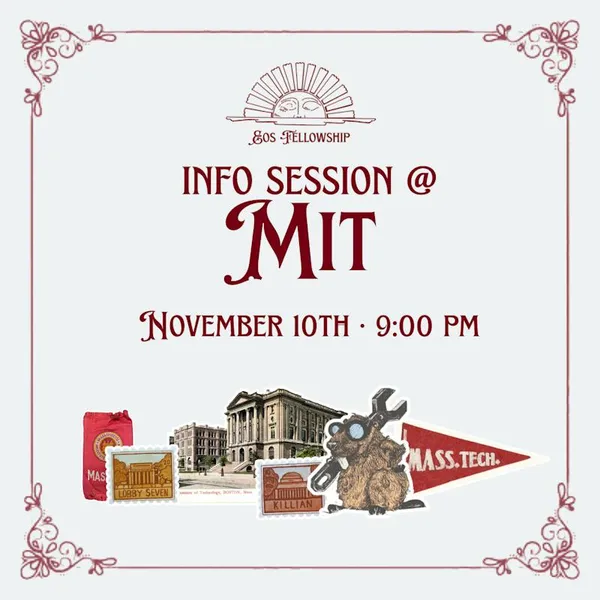
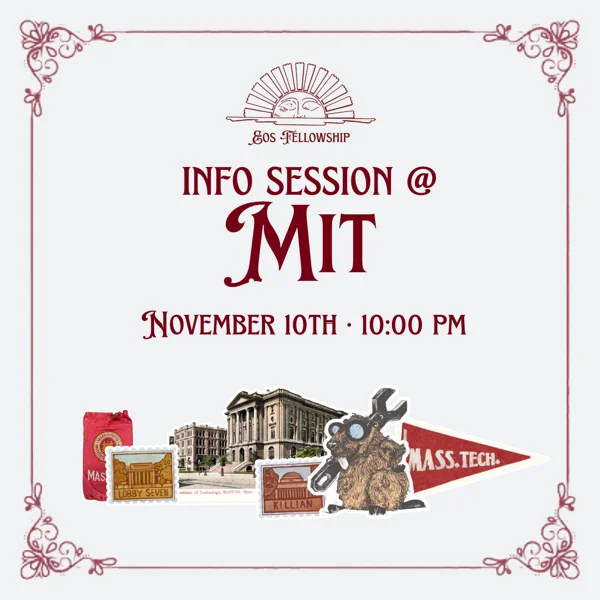
Serve the application at /apply; move hand edits into src
- vercel.json: cleanUrls, so /apply serves apply.html and /apply.html redirects there
- links on the hosted pages point to apply and ./; the canonical is eosfellows.com/apply
- Berkeley, Stanford, MIT at 10 PM, Kush Bavaria, and Angelina's affiliation now live in
  src/ (site.json, links.json, templates), so a rebuild keeps them. Sessions can set their
  own time zone (tz, utc_offset).

diff --git a/src/templates/index.body.html b/src/templates/index.body.html
@@ -21,11 +21,11 @@
     <section class="sec" id="sessions" aria-labelledby="h-sessions">
       <div class="main">
         <h2 class="rubric" id="h-sessions">Info sessions</h2>
-        <p class="clear"><img class="init" src="%%A%%" alt="" title="Initial A, Scriptores Historiae Augustae"><span class="sr">A</span>s we begin bringing this community to campuses across the country, we're excited to be coming to Columbia, Penn, Princeton, Yale, MIT, and Harvard. Several of our core organizers, including Andrea Wang (SV Angel), Adam Zhou (Redglass), Joshua Browder (DoNotPay, Browder Capital), and Prat Mallick (Xfund), will be on campus to meet students, share more about the fellowship, and hear what people are working on.</p>
+        <p class="clear"><img class="init" src="%%A%%" alt="" title="Initial A, Scriptores Historiae Augustae"><span class="sr">A</span>s we begin bringing this community to campuses across the country, we're excited to be coming to Columbia, Penn, Princeton, Yale, MIT, Harvard, Berkeley, and Stanford. Several of our core organizers, including Andrea Wang (SV Angel), Joshua Browder (DoNotPay, Browder Capital), Sean Cai (a16z), and Angelina Lue (Meta Superintelligence), will be on campus to meet students, share more about the fellowship, and hear what people are working on.</p>
         <p>If you're building something or starting to explore your life's work, we'd love to meet you. Pick your campus and RSVP on Partiful.</p>
       </div>
       <aside class="gloss">
-        <p class="note"><span class="manicule" aria-hidden="true">☞</span><span>Six campuses<br>Nov 6 – 10<br>Pick yours below</span></p>
+        <p class="note"><span class="manicule" aria-hidden="true">☞</span><span>Eight campuses<br>Nov 6 – 19<br>Pick yours below</span></p>
         <figure><img src="%%snailwoman%%" alt="A woman waving from a snail shell" width="105" height="191"><figcaption>Hours of Jacques de Rambures, c. 1460</figcaption></figure>
       </aside>
       <ol class="sessions">
@@ -65,7 +65,7 @@
         <div class="kalendar">
           <div class="kl" aria-hidden="true"><span class="k">K</span><span class="l">L</span></div>
           <ol class="kal">
-            <li class="red"><span class="ro" aria-hidden="true">vj–x</span><span class="when">Nov 6–10</span><span class="ev">Info sessions at Columbia, Penn, Princeton, Yale, MIT, and Harvard</span></li>
+            <li class="red"><span class="ro" aria-hidden="true">vj–xix</span><span class="when">Nov 6–19</span><span class="ev">Info sessions at Columbia, Penn, Princeton, Yale, MIT, Harvard, Berkeley, and Stanford</span></li>
             <li class="red"><span class="ro" aria-hidden="true">xv</span><span class="when">Dec 15</span><span class="ev">Apply <a href="apply.html">here</a> by Dec 15</span></li>
             <li><span class="ro" aria-hidden="true">mmxxvij</span><span class="when">Early 2027</span><span class="ev">We will review all applications and reach out in early 2027 if you are invited to interview</span></li>
             <li class="blue"><span class="ro" aria-hidden="true">mmxxvij</span><span class="when">End of Q1</span><span class="ev">First cohort will be selected by the end of Q1 2027</span></li>
@@ -91,7 +91,7 @@
             <ul class="roll">
               <li><span class="nm">Adam Zhou</span><span class="af">Redglass</span></li>
               <li><span class="nm">Andrea Wang</span><span class="af">SV Angel</span></li>
-              <li><span class="nm">Angelina Lue</span><span class="af">Meta</span></li>
+              <li><span class="nm">Angelina Lue</span><span class="af">Meta Superintelligence</span></li>
               <li><span class="nm">Joshua Browder</span><span class="af">DoNotPay, Browder Capital</span></li>
               <li><span class="nm">Prat Mallick</span><span class="af">Xfund</span></li>
               <li><span class="nm">Sean Cai</span><span class="af">a16z</span></li>
@@ -103,6 +103,7 @@
               <li><span class="nm">Adarsh Hiremath</span><span class="af">Mercor</span></li>
               <li><span class="nm">Alex Shan</span><span class="af">Judgment Labs</span></li>
               <li><span class="nm">Grace Li</span><span class="af">The Intelligence Company</span></li>
+              <li><span class="nm">Kush Bavaria</span><span class="af">Ornn</span></li>
               <li><span class="nm">Mary Gao</span><span class="af">Cognition</span></li>
               <li><span class="nm">Vincent Zhu</span><span class="af">Cursor/SpaceX</span></li>
               <li><span class="nm">Yash Patil</span><span class="af">Applied Compute</span></li>

diff --git a/apply.html b/apply.html
@@ -1,5 +1,5 @@
 <!doctype html><html lang="en"><head><meta charset="utf-8"><meta name="viewport" content="width=device-width,initial-scale=1,viewport-fit=cover"><style>:root{color-scheme:light;padding-top:env(safe-area-inset-top,0px);padding-bottom:env(safe-area-inset-bottom,0px)}body{margin:0}img{max-width:100%}</style>
-<link rel="canonical" href="https://eosfellows.com/apply.html">
+<link rel="canonical" href="https://eosfellows.com/apply">
 <link rel="icon" href="favicon.ico" sizes="any">
 <link rel="icon" type="image/png" sizes="32x32" href="favicon-32.png">
 <link rel="icon" type="image/png" sizes="192x192" href="icon-192.png">
@@ -9,7 +9,7 @@
 <meta property="og:site_name" content="Eos Fellowship">
 <meta property="og:title" content="Apply to the Eos Fellowship">
 <meta property="og:description" content="Discover, Champion, and Accelerate your life’s work">
-<meta property="og:url" content="https://eosfellows.com/apply.html">
+<meta property="og:url" content="https://eosfellows.com/apply">
 <meta property="og:image" content="https://eosfellows.com/og.jpg">
 <meta property="og:image:width" content="1200">
 <meta property="og:image:height" content="630">
@@ -440,18 +440,18 @@ a.poster:hover{transform:translateY(-2px);box-shadow:0 0 0 1px var(--ink),0 9px 
 
 <header class="bar">
   <div class="bar-in">
-    <a class="brand" href="index.html#top" aria-label="Eos Fellowship, back to top">
+    <a class="brand" href="./#top" aria-label="Eos Fellowship, back to top">
       <svg viewBox="136 213 640 652" aria-hidden="true"><use href="#p-sil" fill="url(#gilt)"/><use href="#p-sil" class="glint" fill="url(#glint)"/><use href="#p-sun" class="sun-ink"/></svg>
       <span>Eos Fellowship</span>
     </a>
     <nav class="tabula" id="tabula" aria-label="Contents">
-      <a href="index.html#sessions">Info Sessions</a>
-      <a href="index.html#fellowship">The Fellowship</a>
-      <a href="index.html#why">Why Join</a>
-      <a href="index.html#sessions" data-rsvp>RSVP</a>
-      <a href="index.html#company">Organizers</a>
+      <a href="./#sessions">Info Sessions</a>
+      <a href="./#fellowship">The Fellowship</a>
+      <a href="./#why">Why Join</a>
+      <a href="./#sessions" data-rsvp>RSVP</a>
+      <a href="./#company">Organizers</a>
     </nav>
-    <a class="btn btn-rubric" id="bar-cta" href="apply.html">Apply</a>
+    <a class="btn btn-rubric" id="bar-cta" href="apply">Apply</a>
     <button class="toggle" type="button" aria-expanded="false" aria-controls="tabula" aria-label="Contents"><i></i><i></i><i></i></button>
   </div>
 </header>
@@ -460,7 +460,7 @@ a.poster:hover{transform:translateY(-2px);box-shadow:0 0 0 1px var(--ink),0 9px 
   <div class="text">
     <section class="sec wide apply-sec" id="application" aria-labelledby="h-app">
       <div class="main app">
-        <p class="back"><a href="index.html">← Back to the Eos Fellowship</a></p>
+        <p class="back"><a href="./">← Back to the Eos Fellowship</a></p>
         <h1 class="app-title" id="h-app"><span class="cap">T</span>he Application</h1>
         <p class="app-lede">Apply by Dec 15. We will review all applications and reach out in early 2027 if you are invited to interview. First cohort will be selected by the end of Q1 2027.</p>
         <p class="app-intro">Fields marked <span class="req">*</span> are required. Your progress saves automatically in this browser, so you can close the page and finish later. After you submit, we email you a copy.</p>
@@ -683,7 +683,7 @@ a.poster:hover{transform:translateY(-2px);box-shadow:0 0 0 1px var(--ink),0 9px 
     const data = values();
     if (data.website) { finish(data.name); return; }
     if (!SHEET_ENDPOINT.startsWith("https://")) {
-      status.innerHTML = 'This preview can\'t send applications. Please apply at <a href="https://eosfellows.com/apply.html" target="_blank" rel="noopener">eosfellows.com/apply.html</a>.';
+      status.innerHTML = 'This preview can\'t send applications. Please apply at <a href="https://eosfellows.com/apply" target="_blank" rel="noopener">eosfellows.com/apply</a>.';
       status.classList.add("bad");
       return;
     }

diff --git a/index.html b/index.html
@@ -451,7 +451,7 @@ a.poster:hover{transform:translateY(-2px);box-shadow:0 0 0 1px var(--ink),0 9px 
       <a href="#sessions" data-rsvp>RSVP</a>
       <a href="#company">Organizers</a>
     </nav>
-    <a class="btn btn-rubric" id="bar-cta" href="apply.html">Apply</a>
+    <a class="btn btn-rubric" id="bar-cta" href="apply">Apply</a>
     <button class="toggle" type="button" aria-expanded="false" aria-controls="tabula" aria-label="Contents"><i></i><i></i><i></i></button>
   </div>
 </header>
@@ -469,7 +469,7 @@ a.poster:hover{transform:translateY(-2px);box-shadow:0 0 0 1px var(--ink),0 9px 
       </div>
       <div class="actions hero-actions">
         <a class="btn btn-rubric" href="#sessions">RSVP for an info session</a>
-        <a class="btn btn-ruled" href="apply.html">Apply by Dec 15</a>
+        <a class="btn btn-ruled" href="apply">Apply by Dec 15</a>
       </div>
     </div>
   </section>
@@ -587,14 +587,14 @@ a.poster:hover{transform:translateY(-2px);box-shadow:0 0 0 1px var(--ink),0 9px 
           <div class="kl" aria-hidden="true"><span class="k">K</span><span class="l">L</span></div>
           <ol class="kal">
             <li class="red"><span class="ro" aria-hidden="true">vj–xix</span><span class="when">Nov 6–19</span><span class="ev">Info sessions at Columbia, Penn, Princeton, Yale, MIT, Harvard, Berkeley, and Stanford</span></li>
-            <li class="red"><span class="ro" aria-hidden="true">xv</span><span class="when">Dec 15</span><span class="ev">Apply <a href="apply.html">here</a> by Dec 15</span></li>
+            <li class="red"><span class="ro" aria-hidden="true">xv</span><span class="when">Dec 15</span><span class="ev">Apply <a href="apply">here</a> by Dec 15</span></li>
             <li><span class="ro" aria-hidden="true">mmxxvij</span><span class="when">Early 2027</span><span class="ev">We will review all applications and reach out in early 2027 if you are invited to interview</span></li>
             <li class="blue"><span class="ro" aria-hidden="true">mmxxvij</span><span class="when">End of Q1</span><span class="ev">First cohort will be selected by the end of Q1 2027</span></li>
           </ol>
         </div>
 
         <div class="actions">
-          <a class="btn btn-rubric" href="apply.html">Start your application <span class="arr" aria-hidden="true">→</span></a>
+          <a class="btn btn-rubric" href="apply">Start your application <span class="arr" aria-hidden="true">→</span></a>
         </div>
       </div>
       <aside class="gloss">
@@ -644,7 +644,7 @@ a.poster:hover{transform:translateY(-2px);box-shadow:0 0 0 1px var(--ink),0 9px 
     <svg class="device" viewBox="120 200 1670 680" role="img" aria-label="Eos Fellows"><use href="#p-sun"/><use href="#p-word"/></svg>
     <div class="actions">
       <a class="btn btn-rubric" href="#sessions">RSVP for an info session</a>
-      <a class="btn btn-ruled" href="apply.html">Apply by Dec 15</a>
+      <a class="btn btn-ruled" href="apply">Apply by Dec 15</a>
     </div>
   </footer>
 </main>
@@ -768,7 +768,7 @@ a.poster:hover{transform:translateY(-2px);box-shadow:0 0 0 1px var(--ink),0 9px 
     const data = values();
     if (data.website) { finish(data.name); return; }
     if (!SHEET_ENDPOINT.startsWith("https://")) {
-      status.innerHTML = 'This preview can\'t send applications. Please apply at <a href="https://eosfellows.com/apply.html" target="_blank" rel="noopener">eosfellows.com/apply.html</a>.';
+      status.innerHTML = 'This preview can\'t send applications. Please apply at <a href="https://eosfellows.com/apply" target="_blank" rel="noopener">eosfellows.com/apply</a>.';
       status.classList.add("bad");
       return;
     }

diff --git a/src/templates/script.html b/src/templates/script.html
@@ -117,7 +117,7 @@
     const data = values();
     if (data.website) { finish(data.name); return; }
     if (!SHEET_ENDPOINT.startsWith("https://")) {
-      status.innerHTML = 'This preview can\'t send applications. Please apply at <a href="https://eosfellows.com/apply.html" target="_blank" rel="noopener">eosfellows.com/apply.html</a>.';
+      status.innerHTML = 'This preview can\'t send applications. Please apply at <a href="https://eosfellows.com/apply" target="_blank" rel="noopener">eosfellows.com/apply</a>.';
       status.classList.add("bad");
       return;
     }

diff --git a/tools/build.py b/tools/build.py
@@ -27,8 +27,8 @@ def data_uri(name):
         return 'data:%s;base64,%s' % (mime, base64.b64encode(f.read()).decode())
 
 
-def gcal(title, start, end, details, loc=''):
-    q = {'action': 'TEMPLATE', 'text': title, 'dates': start + '/' + end, 'ctz': 'America/New_York', 'details': details}
+def gcal(title, start, end, details, loc='', tz='America/New_York'):
+    q = {'action': 'TEMPLATE', 'text': title, 'dates': start + '/' + end, 'ctz': tz, 'details': details}
     if loc:
         q['location'] = loc
     return 'https://calendar.google.com/calendar/render?' + urllib.parse.urlencode(q)
@@ -39,11 +39,12 @@ def session_cards():
     for s in cfg['sessions']:
         rsvp = 'https://partiful.com/e/' + s['partiful']
         d = s['date'].replace('-', '')
+        # times are local to the campus; Eastern unless the session says otherwise (Nov is standard time)
+        tz, off = s.get('tz', 'America/New_York'), s.get('utc_offset', '-05:00')
         cal = gcal('Eos Fellowship info session at ' + s['school'], d + 'T' + s['start'] + '00', d + 'T' + s['end'] + '00',
-                   'RSVP: ' + rsvp, s['where'])
-        # all sessions are in Eastern time after the Nov 1 DST change
-        end_iso = '%sT%s:%s:00-05:00' % (s['date'], s['end'][:2], s['end'][2:])
-        start_iso = '%sT%s:%s-05:00' % (s['date'], s['start'][:2], s['start'][2:])
+                   'RSVP: ' + rsvp, s['where'], tz)
+        end_iso = '%sT%s:%s:00%s' % (s['date'], s['end'][:2], s['end'][2:], off)
+        start_iso = '%sT%s:%s%s' % (s['date'], s['start'][:2], s['start'][2:], off)
         school = s['school']
         cards.append(f'''          <li class="session" data-end="{end_iso}">
             <a class="poster" href="{esc(rsvp)}" target="_blank" rel="noopener" tabindex="-1" aria-hidden="true"><img src="{data_uri(s['poster'])}" alt="" width="600" height="600"></a>
@@ -78,10 +79,9 @@ def link_roster(body):
     for name, title in links.get('titles', {}).items():
         body = body.replace(f'>{name}</a><span class="af">',
                             f'>{name}</a><span class="af"><span class="ti">{esc(title)}</span><span class="sep"> · </span>', 1)
-    # organizer names in the info-sessions paragraph
-    for name in ('Andrea Wang', 'Adam Zhou', 'Joshua Browder', 'Prat Mallick'):
-        url = links['people'].get(name)
-        if url:
+    # organizer names in the info-sessions paragraph, written as "Name (Company)"
+    for name, url in links['people'].items():
+        if name + ' (' in body:
             body = body.replace(name + ' (', f'<a href="{esc(url)}" target="_blank" rel="noopener" title="{esc(name)} on LinkedIn">{name}</a> (', 1)
     return body
 
@@ -114,6 +114,8 @@ def page(body, title, base, endpoint):
 def hosted(p, og_title, path):
     """Full document with icons, canonical URL and link-preview tags in <head>."""
     p = p.replace('<meta name="claude:viewport-fit-sides" content="cover">\n', '')
+    # clean URLs on the hosted site: /apply and ./ (Vercel's cleanUrls and GitHub Pages both serve these)
+    p = p.replace('href="apply.html"', 'href="apply"').replace('href="index.html', 'href="./')
     i = p.index('<svg class="defs"')
     head_part, body_part = p[:i], p[i:]
     base, desc = cfg['base_url'], cfg['tagline']
@@ -154,7 +156,7 @@ index_body, apply_body = read(TEMPLATES, 'index.body.html'), read(TEMPLATES, 'ap
 endpoint = cfg['sheet_endpoint']
 write('index.html', hosted(page(index_body, 'Eos Fellowship', '', endpoint), 'Eos Fellowship', ''))
 write('apply.html', hosted(page(apply_body, 'Eos Fellowship Application', 'index.html', endpoint),
-                           'Apply to the Eos Fellowship', 'apply.html'))
+                           'Apply to the Eos Fellowship', 'apply'))
 
 if '--preview' in sys.argv:
     # claude.ai artifact copy: the main page has no skeleton (the viewer adds one) and

diff --git a/README.md b/README.md
@@ -2,7 +2,8 @@
 
 The Eos Fellowship site, styled as an illuminated medieval manuscript.
 
-- Live: https://eosfellows.com (application page: `/apply.html`). Also served at https://eos-fellowship.vercel.app.
+- Live: https://eosfellows.com (application page: https://eosfellows.com/apply). Also served at https://eos-fellowship.vercel.app.
+- Campus shortcuts like eosfellows.com/princeton redirect to that session's Partiful page; they live in `vercel.json`.
 - Mirror: https://mallick-prat.github.io/eos-fellowship/
 - Applications go to the Google Sheet **Eos Fellowship Applications** (owned by mallickprat@gmail.com). Each applicant is emailed a copy.
 
@@ -21,17 +22,17 @@ The Eos Fellowship site, styled as an illuminated medieval manuscript.
 
 ## Making a change
 
-1. Edit `src/` (for example, change a session's time in `src/site.json`).
+1. Edit `src/`, not `index.html` (the build overwrites it). For example, change a session's time in `src/site.json`;
+   sessions outside Eastern time also set `tz` and `utc_offset`, as Berkeley and Stanford do.
 2. Rebuild: `python3 tools/build.py`
 3. Look at `index.html` / `apply.html` in a browser.
-4. Deploy both copies:
+4. Deploy:
    ```bash
    git add -A && git commit -m "Describe the change" && git push
-   vercel deploy --prod --yes
    ```
-   GitHub Pages updates from the push. Run the `vercel` command from the repo root; it's linked to the
-   `eos-fellowship` project in the *Pratyush Mallick's projects* team (`vercel link --project eos-fellowship
-   --scope pratyush-mallicks-projects` on a new machine). `.vercelignore` keeps `src/` and `tools/` out of the deploy.
+   Vercel and GitHub Pages both deploy automatically from the push. (`vercel deploy --prod --yes` from the repo root
+   also works; it's linked to the `eos-fellowship` project in the *Pratyush Mallick's projects* team.)
+   `.vercelignore` keeps `src/` and `tools/` out of the deploy.
 
 `python3 tools/build.py --preview` also writes `preview/` (git-ignored), the copy used for the claude.ai artifact
 preview. Its form points people to the live site, because artifacts can't send data to Google.
